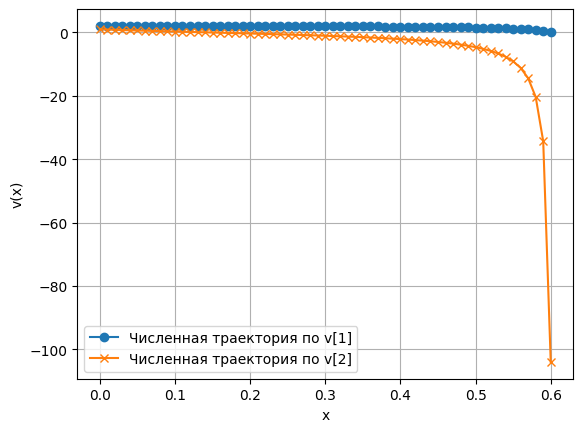
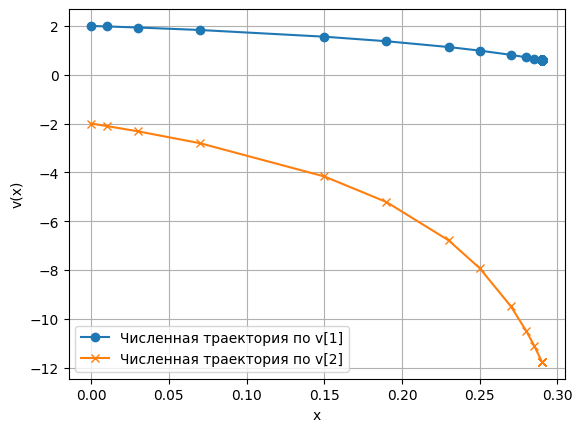
Была ошибка в записи данных при несоблюдении условий контроля

diff --git a/Lab_1.py b/Lab_1.py
@@ -73,43 +73,46 @@ def znach(x1, v1, x2, v2, h, h0, n, olp, S, C1, C2, x_1, v_1, x_2, v_2, i):
          if((epsilon/32) <= abs(S_) <= epsilon):
             h, n, olp, S, x_1, v_1 = record(x1, v1, h, h0, n, olp_, S_, olp, S, x_1, v_1, i)
             h0 = h0
+            i = i + 1
          elif(abs(S_) <= (epsilon/32)):
             h, n, olp, S, x_1, v_1 = record(x1, v1, h, h0, n, olp_, S_, olp, S, x_1, v_1, i)
             C1 = C1 + 1
             h0 = 2*h0
+            i = i + 1
          else:
+            x1 = x_1[-1]
+            v1 = v_1[-1]
             x_2.pop(-1)
             v_2.pop(-1)
             x2 = x_2[-1]
             v2 = v_2[-1]
-            h, n, olp, S, x_1, v_1 = record(x1, v1, h, h0, n, olp_, S_, olp, S, x_1, v_1, i)
-            x_2.append(x2)
-            v_2.append(v2)
             C2 = C2 + 1
             h0 = h0/2
       elif (zadacha == 2):
          if(((epsilon/32) <= abs(S_[0]) <= epsilon) and ((epsilon/32) <= abs(S_[1]) <= epsilon)):
             h, n, olp, S, x_1, v_1 = record(x1, v1, h, h0, n, olp_, S_, olp, S, x_1, v_1, i)
             h0 = h0
+            i = i + 1
          elif((abs(S_[0]) <= (epsilon/32)) and (abs(S_[1]) <= (epsilon/32))):
             h, n, olp, S, x_1, v_1 = record(x1, v1, h, h0, n, olp_, S_, olp, S, x_1, v_1, i)
             C1 = C1 + 1
             h0 = 2*h0
+            i = i + 1
          else:
+            x1 = x_1[-1]
+            v1 = v_1[-1]
             x_2.pop(-1)
             v_2.pop(-1)
             x2 = x_2[-1]
             v2 = v_2[-1]
-            h, n, olp, S, x_1, v_1 = record(x1, v1, h, h0, n, olp_, S_, olp, S, x_1, v_1, i)
-            x_2.append(x2)
-            v_2.append(v2)
             C2 = C2 + 1
             h0 = h0/2
    else:
       h, n, olp, S, x_1, v_1 = record(x1, v1, h, h0, n, olp_, S_, olp, S, x_1, v_1, i)
       C1 = 0
       C2 = 0
-   return x1, v1, x2, v2, h, h0, n, olp, S, C1, C2, x_1, v_1, x_2, v_2
+      i = i + 1
+   return x1, v1, x2, v2, h, h0, n, olp, S, C1, C2, x_1, v_1, x_2, v_2, i
 
 def func_border(x1):
    if ((border - epsilon_gr <= x1) and (x1 <= border)):
@@ -152,8 +155,7 @@ def RK4(x0, v0, h0, Nmax):
          j = j + 1
       x_2.append(x2)
       v_2.append(v2)
-      x1, v1, x2, v2, h, h0, n, olp, S, C1, C2, x_1, v_1, x_2, v_2 = znach(x1, v1, x2, v2, h, h0, n, olp, S, C1, C2, x_1, v_1, x_2, v_2, i)
-      i = i + 1
+      x1, v1, x2, v2, h, h0, n, olp, S, C1, C2, x_1, v_1, x_2, v_2, i = znach(x1, v1, x2, v2, h, h0, n, olp, S, C1, C2, x_1, v_1, x_2, v_2, i)
       z = func_border(x1)
       if (z == 0):
          break

diff --git a/TASK9_RK4.py b/TASK9_RK4.py
@@ -62,20 +62,16 @@ def RK4(x0, v0, h, Nmax):
             h = 2*h
             i = i + 1
          else:
+            x1 = x_1[-1]
+            v1 = v_1[-1]
             x_2.pop(-1)
             v_2.pop(-1)
             x2 = x_2[-1]
             v2 = v_2[-1]
-            olp_.append(olp)
-            h_.append(h)
-            x_1.append(x1)
-            v_1.append(v1)
-            x_2.append(x2)
-            v_2.append(v2)
-            n_.append(i)
+            C2 = C2 + 1
+            h0 = h0/2
             C2 = C2 + 1
             h = h/2
-            i = i + 1
       else:
          olp_.append(olp)
          x_1.append(x1)
@@ -88,23 +84,25 @@ def RK4(x0, v0, h, Nmax):
       if((v0 >= theta)):
          if(v1 <= theta + epsilon_gr):
             break
-         if (theta <= v1):
+         elif (theta <= v1):
             olp_.pop(-1)
             h_.pop(-1)
             x_1.pop(-1)
             v_1.pop(-1)
             v_2.pop(-1)
             n_.pop(-1)
+            break
       else:    
          if((theta - epsilon_gr <= v1)):
             break
-         if (theta >= v1):
+         elif (theta >= v1):
             olp.pop(-1)
             h_.pop(-1)
             x_1.pop(-1)
             v_1.pop(-1)
             v_2.pop(-1)
             n_.pop(-1)
+            break
    return n_, h_, x_1, v_1, v_2, olp_, C1, C2
 
 #* Терминал
